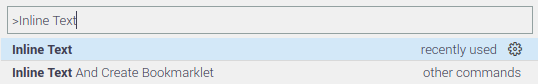
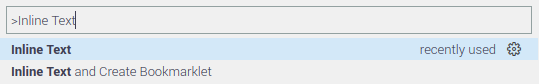
Add support for inline selected code

diff --git a/extension.js b/extension.js
@@ -1,13 +1,19 @@
 const vscode = require('vscode');
 
+function getAllTextRage(document) {
+	const firstLine = document.lineAt(0);
+	const lastLine = document.lineAt(document.lineCount - 1);
+	return new vscode.Range(firstLine.range.start, lastLine.range.end);
+}
+
 function inlineText() {
 	const editor = vscode.window.activeTextEditor;
-
 	if (!editor) return {};
 
 	const document = editor.document;
-	const documentText = document.getText();
-
+	const selection = editor.selection;
+	const selectedText = document.getText(selection);
+	const documentText = selectedText || document.getText();
 	if (documentText === '') return {};
 
 	let updatedDocumentText = '';
@@ -16,9 +22,7 @@ function inlineText() {
 		updatedDocumentText += line.trim();
 	});
 
-	const firstLine = document.lineAt(0);
-	const lastLine = document.lineAt(document.lineCount - 1);
-	const textRange = new vscode.Range(firstLine.range.start, lastLine.range.end);
+	const textRange = selectedText === '' ? getAllTextRage(document) : selection;
 	
 	return { editor, textRange, updatedDocumentText };
 }
@@ -30,7 +34,7 @@ function activate(context) {
 		editor.edit(edit => edit.replace(textRange, updatedDocumentText));
 	});
 
-	const disposableBookmarkletify = vscode.commands.registerCommand('vscode-inline-text.createBookmarklet', () => {
+	const disposableInlineTextAndCreateBookmarklet = vscode.commands.registerCommand('vscode-inline-text.createBookmarklet', () => {
 		const { editor, textRange, updatedDocumentText } = inlineText();
 		if (!textRange || !updatedDocumentText) return;
 		const bookmarklet = `javascript:(()=>{${updatedDocumentText}})();`;
@@ -38,7 +42,7 @@ function activate(context) {
 	});
 
 	context.subscriptions.push(disposableInlineText);
-	context.subscriptions.push(disposableBookmarkletify);
+	context.subscriptions.push(disposableInlineTextAndCreateBookmarklet);
 }
 
 function deactivate() { }

diff --git a/README.md b/README.md
@@ -6,7 +6,7 @@ A VS Code extension to remove indent and line break(change to one line), and an 
 
 1. Inline Text - Remove all indent and line break
 
-2. Inline Text And Create Bookmarklet - Inline text and add bookmarklet wapper(`javascript:(()=>/*JS code in one line*/)()`)
+2. Inline Text and Create Bookmarklet - Inline text and add bookmarklet wapper(`javascript:(()=>/*JS code in one line*/)()`)
 
 ## Installation
 
